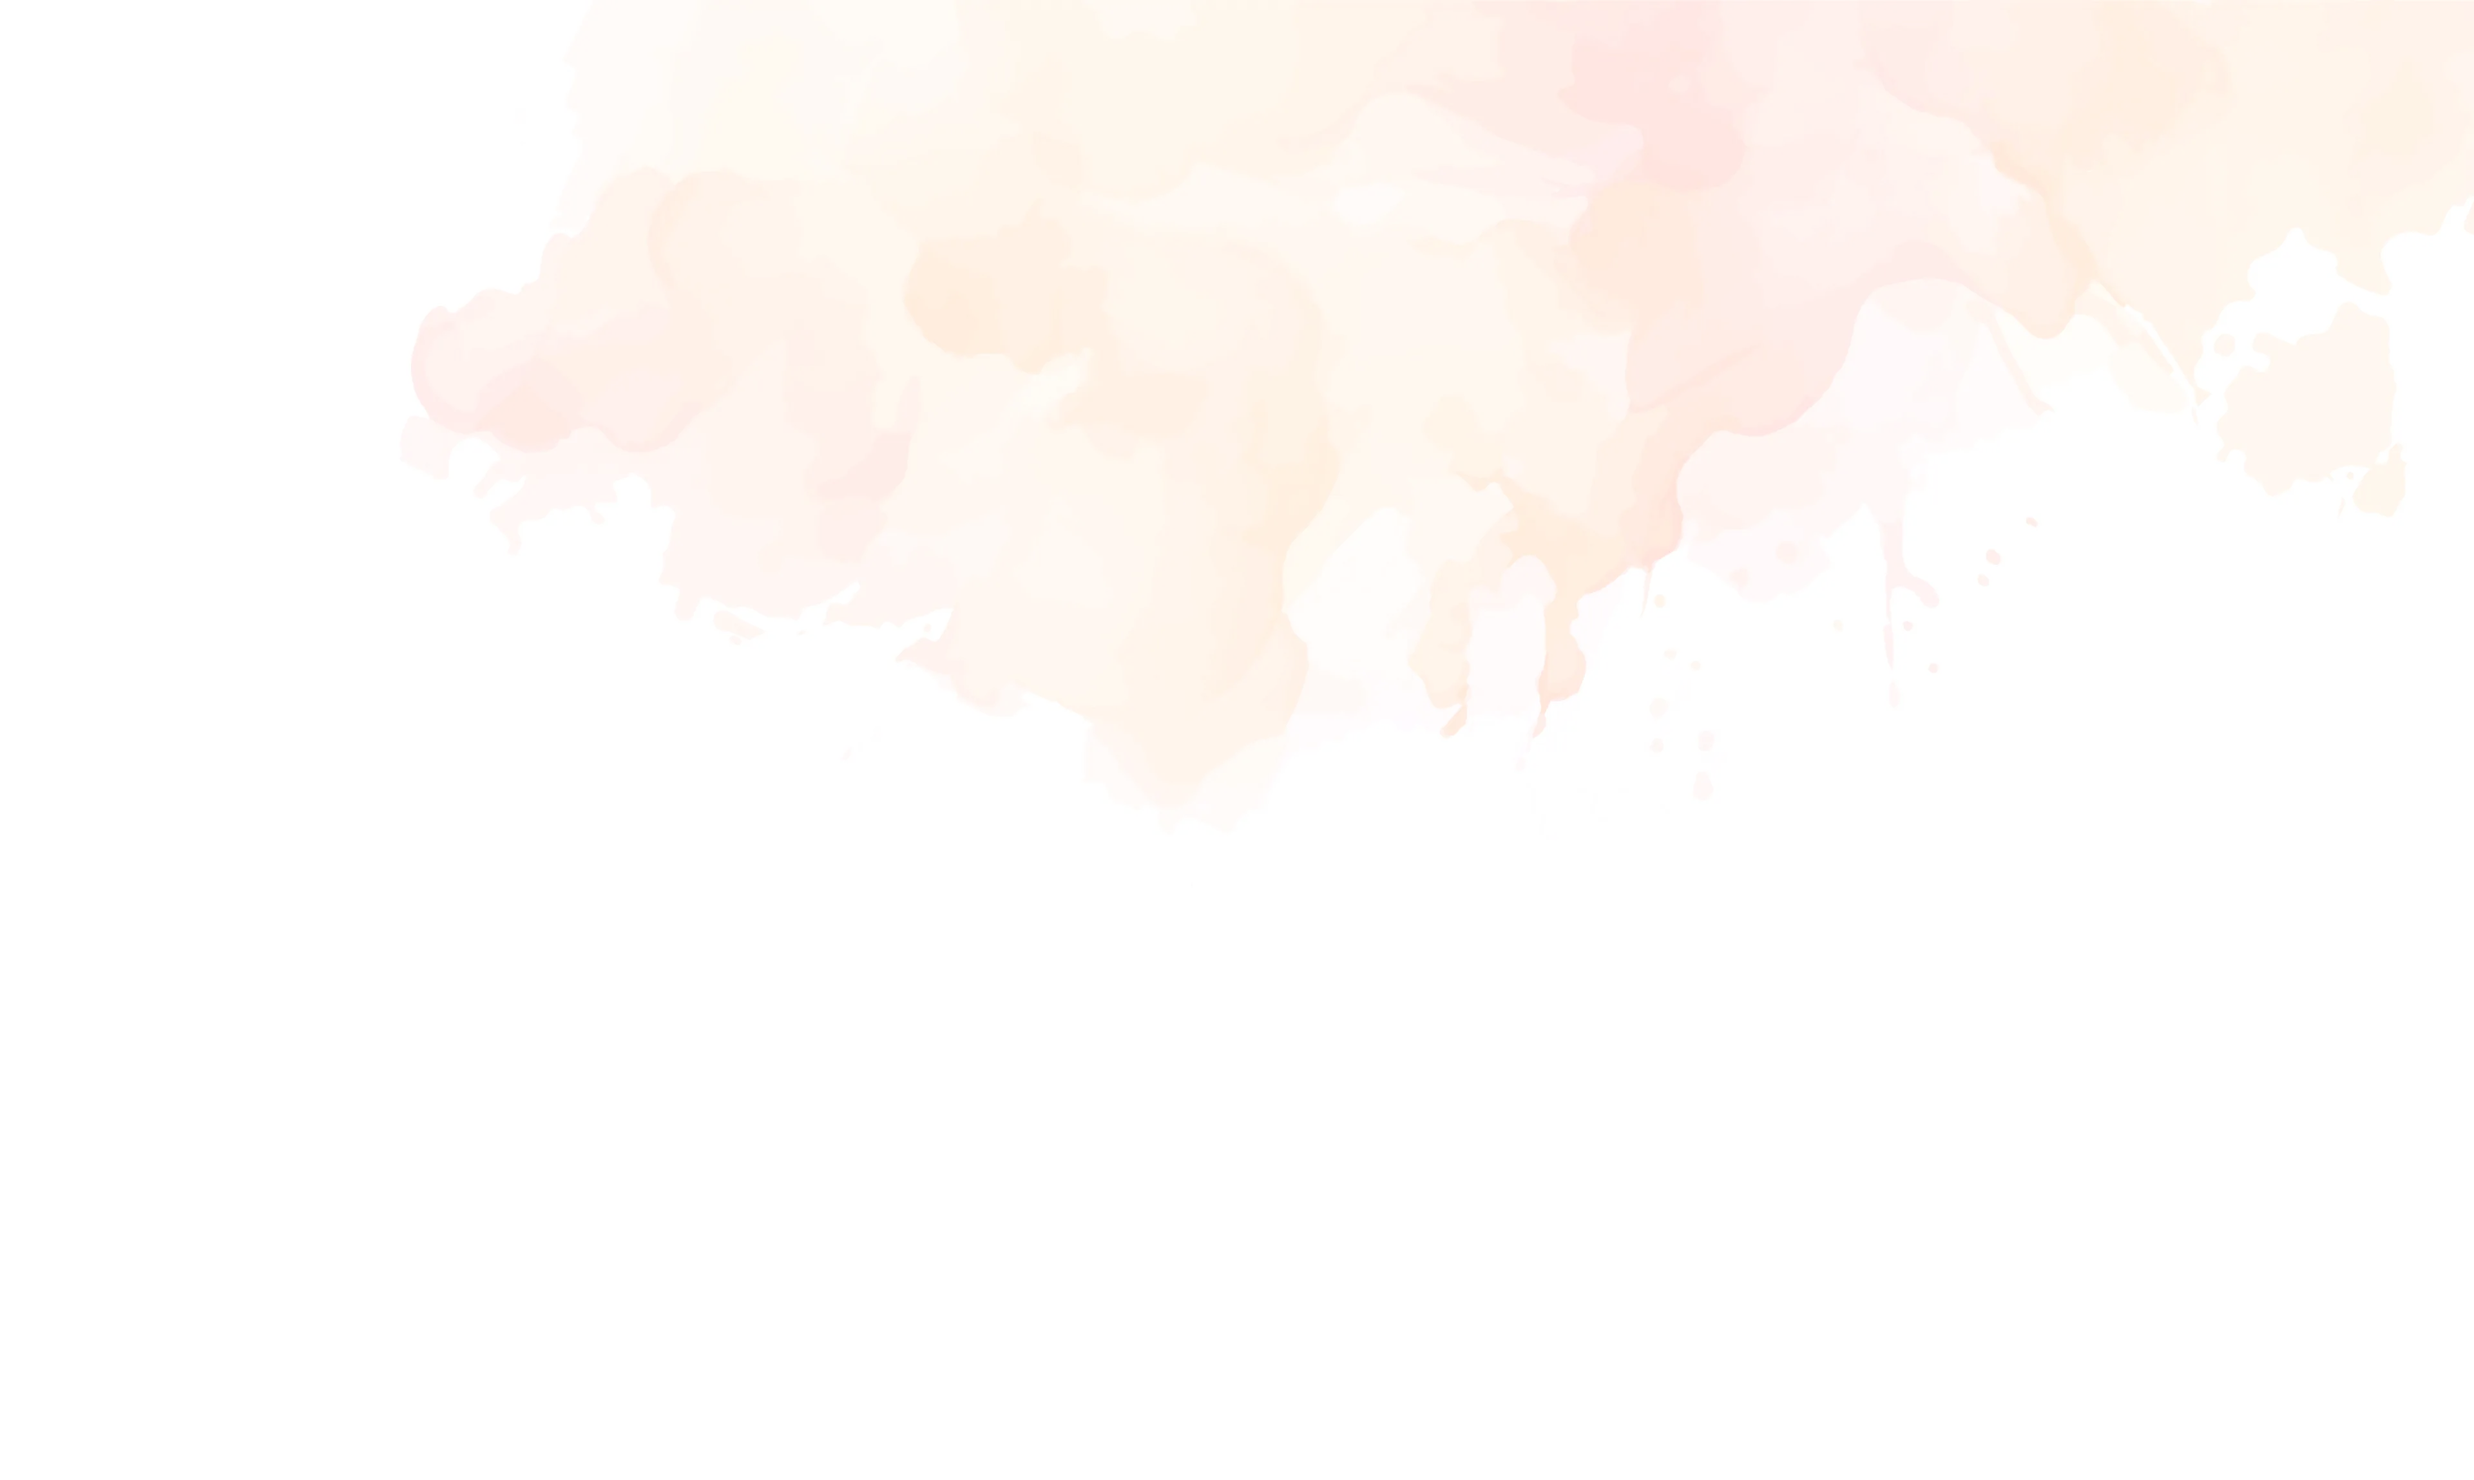
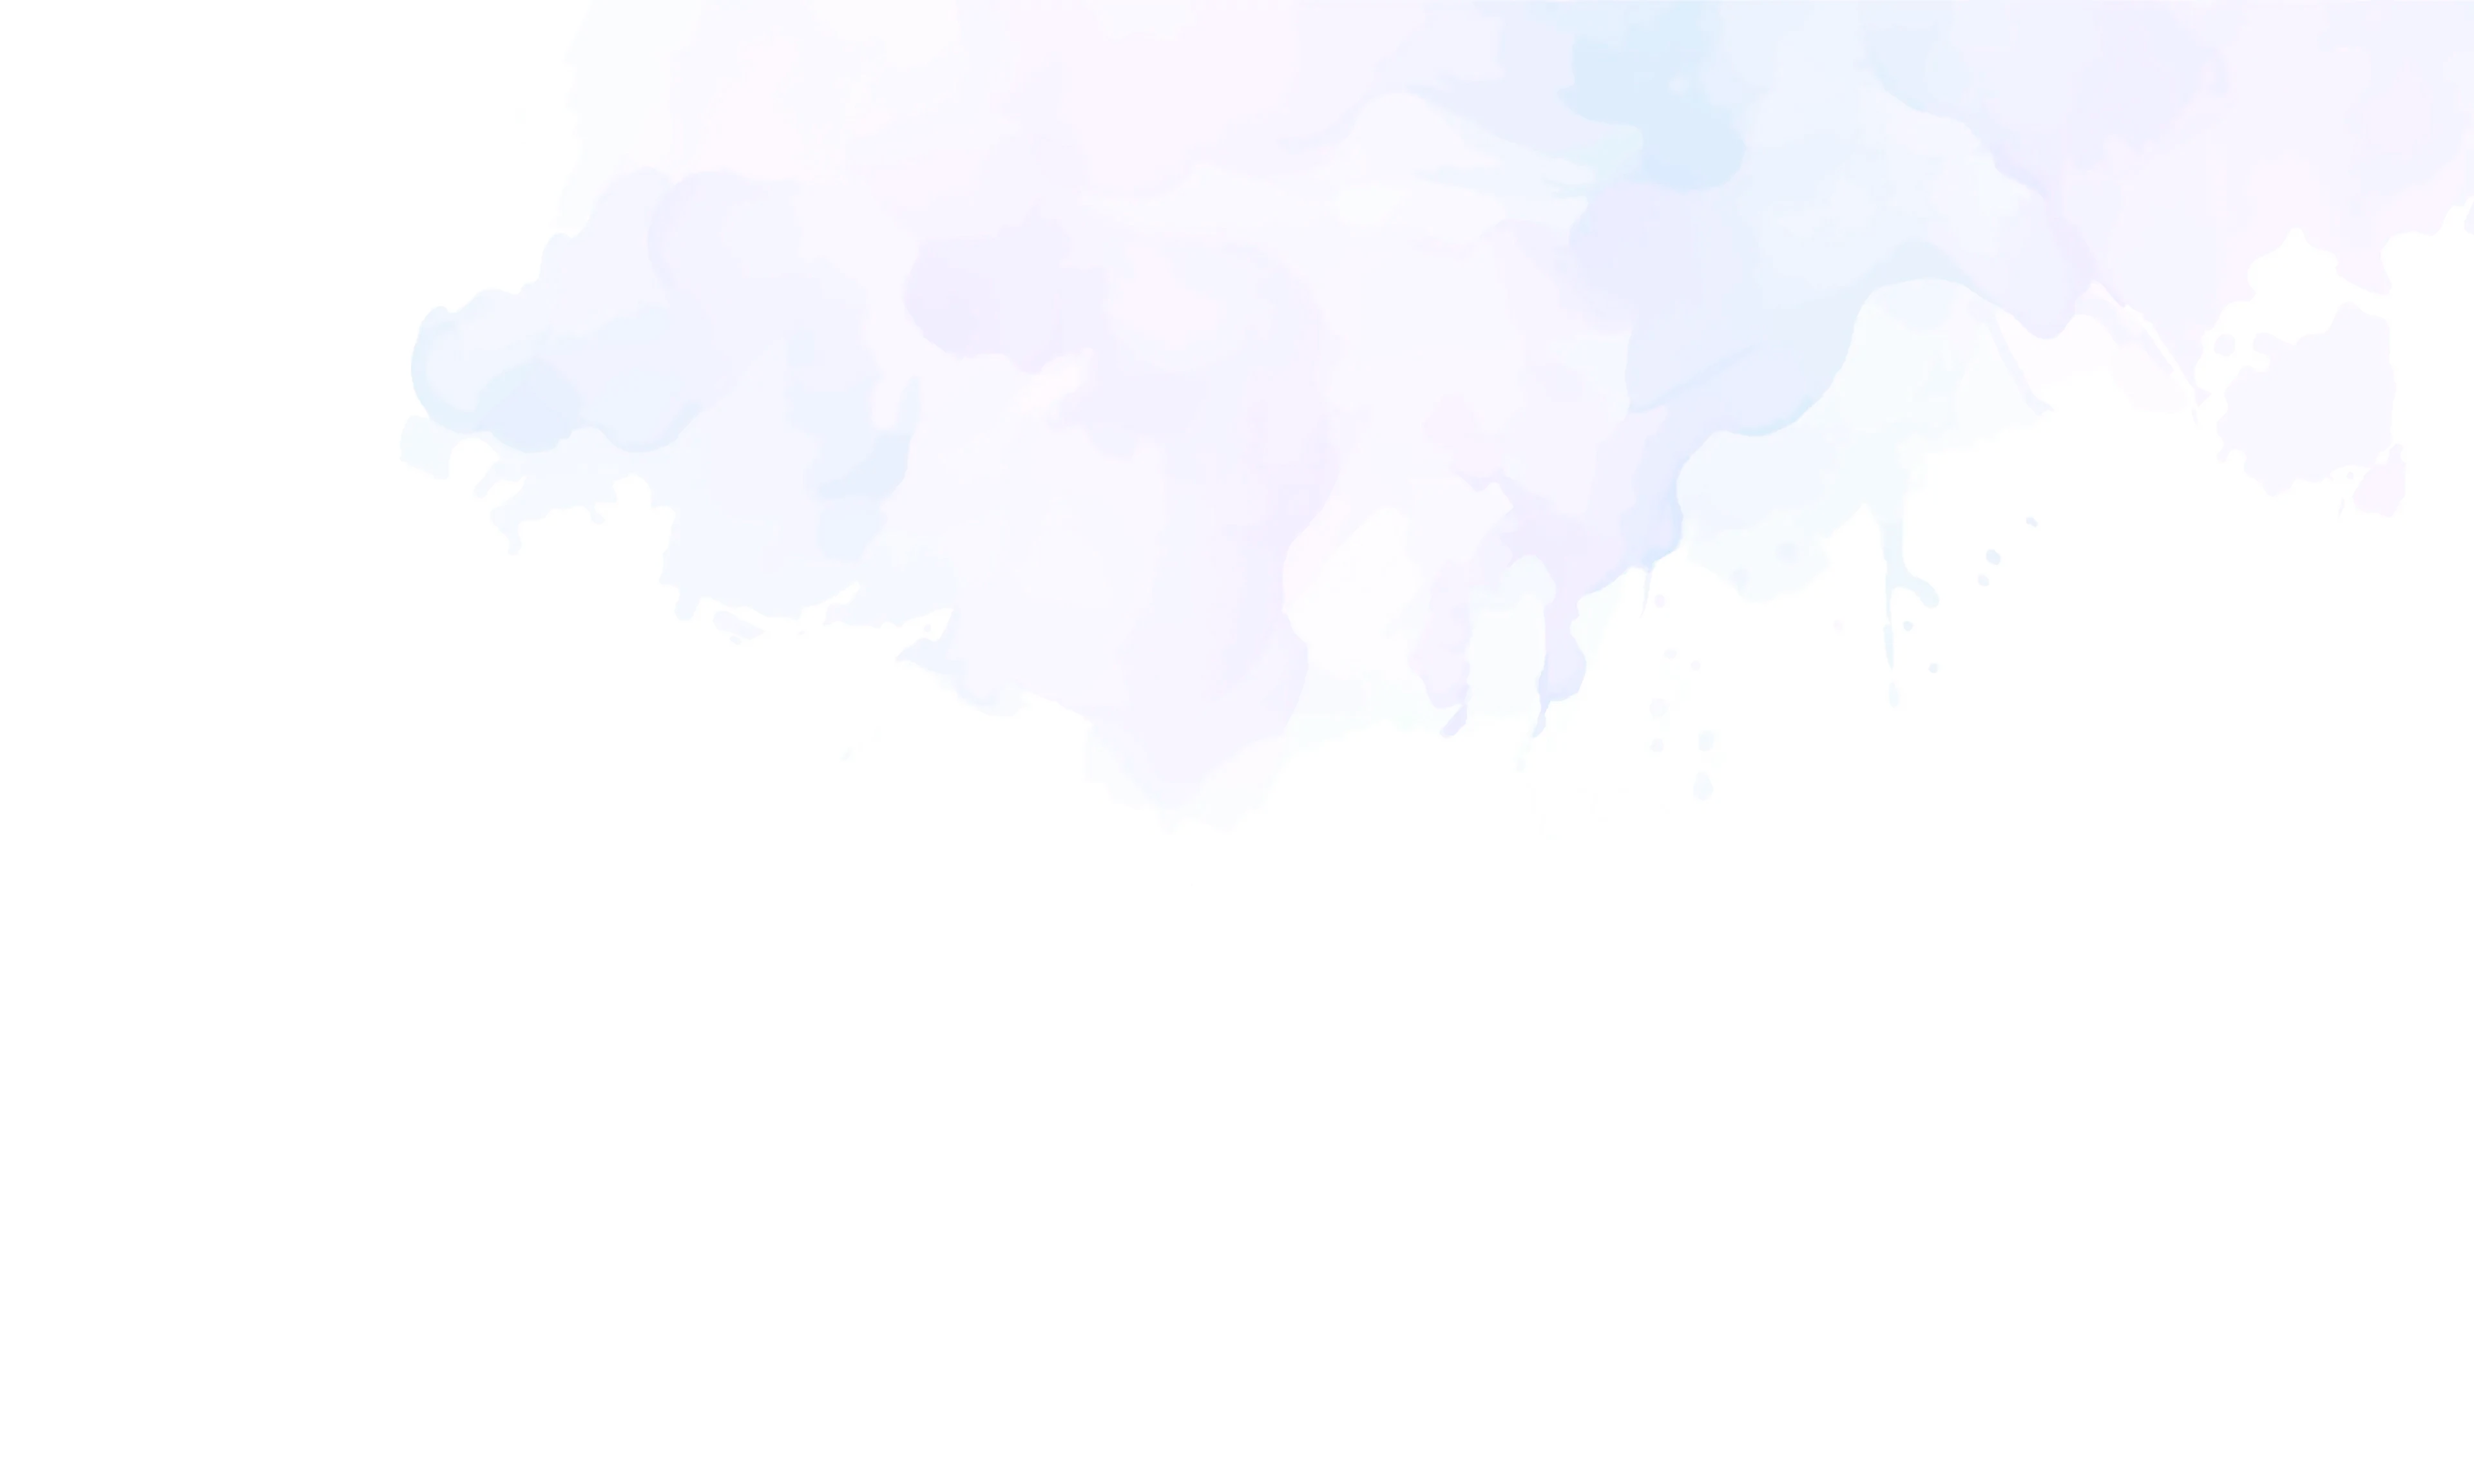
Retint the theme watercolour backgrounds onto the brand hue
The four decorative backgrounds the homepage renders are raster theme
artwork, so the palette swap in _colors.scss did not reach them and they
stayed the stock peach wash under an indigo brand. scripts/retint-backgrounds.mjs
reads the brand hue from _colors.scss, measures each image's dominant hue and
rotates the difference, keeping pristine copies in page/.orig/ so it can be
re-run safely. Documented as step 3 of the palette change in NEW-SITE.md.

diff --git a/NEW-SITE.md b/NEW-SITE.md
@@ -41,7 +41,7 @@ Paste the block at the bottom into a **new chat** to kick one off.
 
 ## Changing the colours
 
-Two steps, and that is genuinely all.
+Three steps, and that is genuinely all.
 
 **1.** Edit the four brand variables at the top of
 `src/styles/elora/utils/_colors.scss`:
@@ -62,6 +62,19 @@ node scripts/generate-favicon.mjs
 That rewrites the favicon and retints the brand-gradient icons — the only
 files that need a literal hex, because a browser loads them standalone and
 they cannot read CSS variables.
+
+**3.** Run:
+
+```
+node scripts/retint-backgrounds.mjs
+```
+
+That rotates the four decorative watercolour backgrounds the homepage uses
+(`bg-home1-sec{1,3,4,7}.webp`) onto the new brand hue. They are raster theme
+artwork, so they cannot read CSS variables either, and the stock files are a
+warm peach wash that only looks right on a pink/orange brand. Pristine copies
+are kept in `public/assets/imgs/page/.orig/` and are always used as the input,
+so the script is safe to re-run after another palette change.
 
 Everything else follows automatically: logo, buttons, links, badges, hover
 states, headings, underlines, the checkmark icon. There are no brand hex
